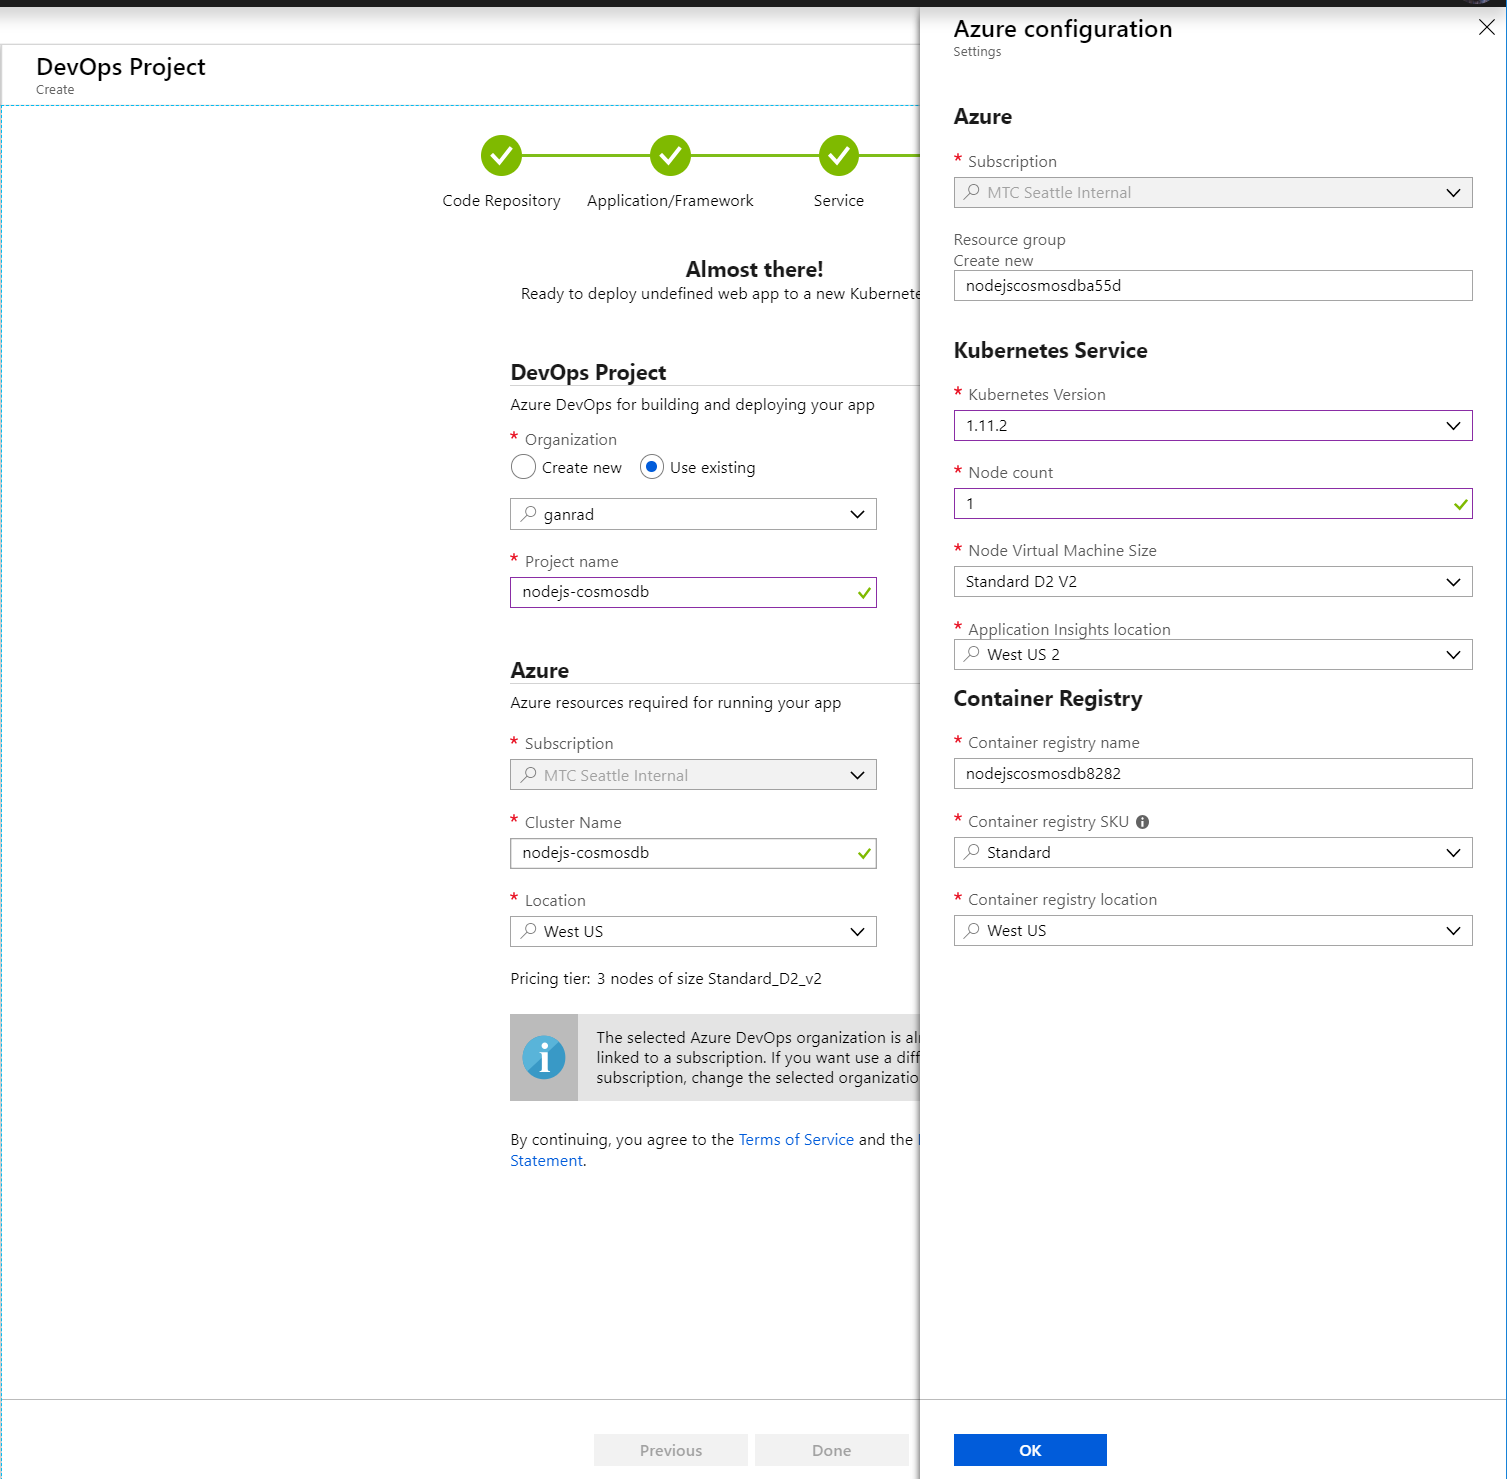
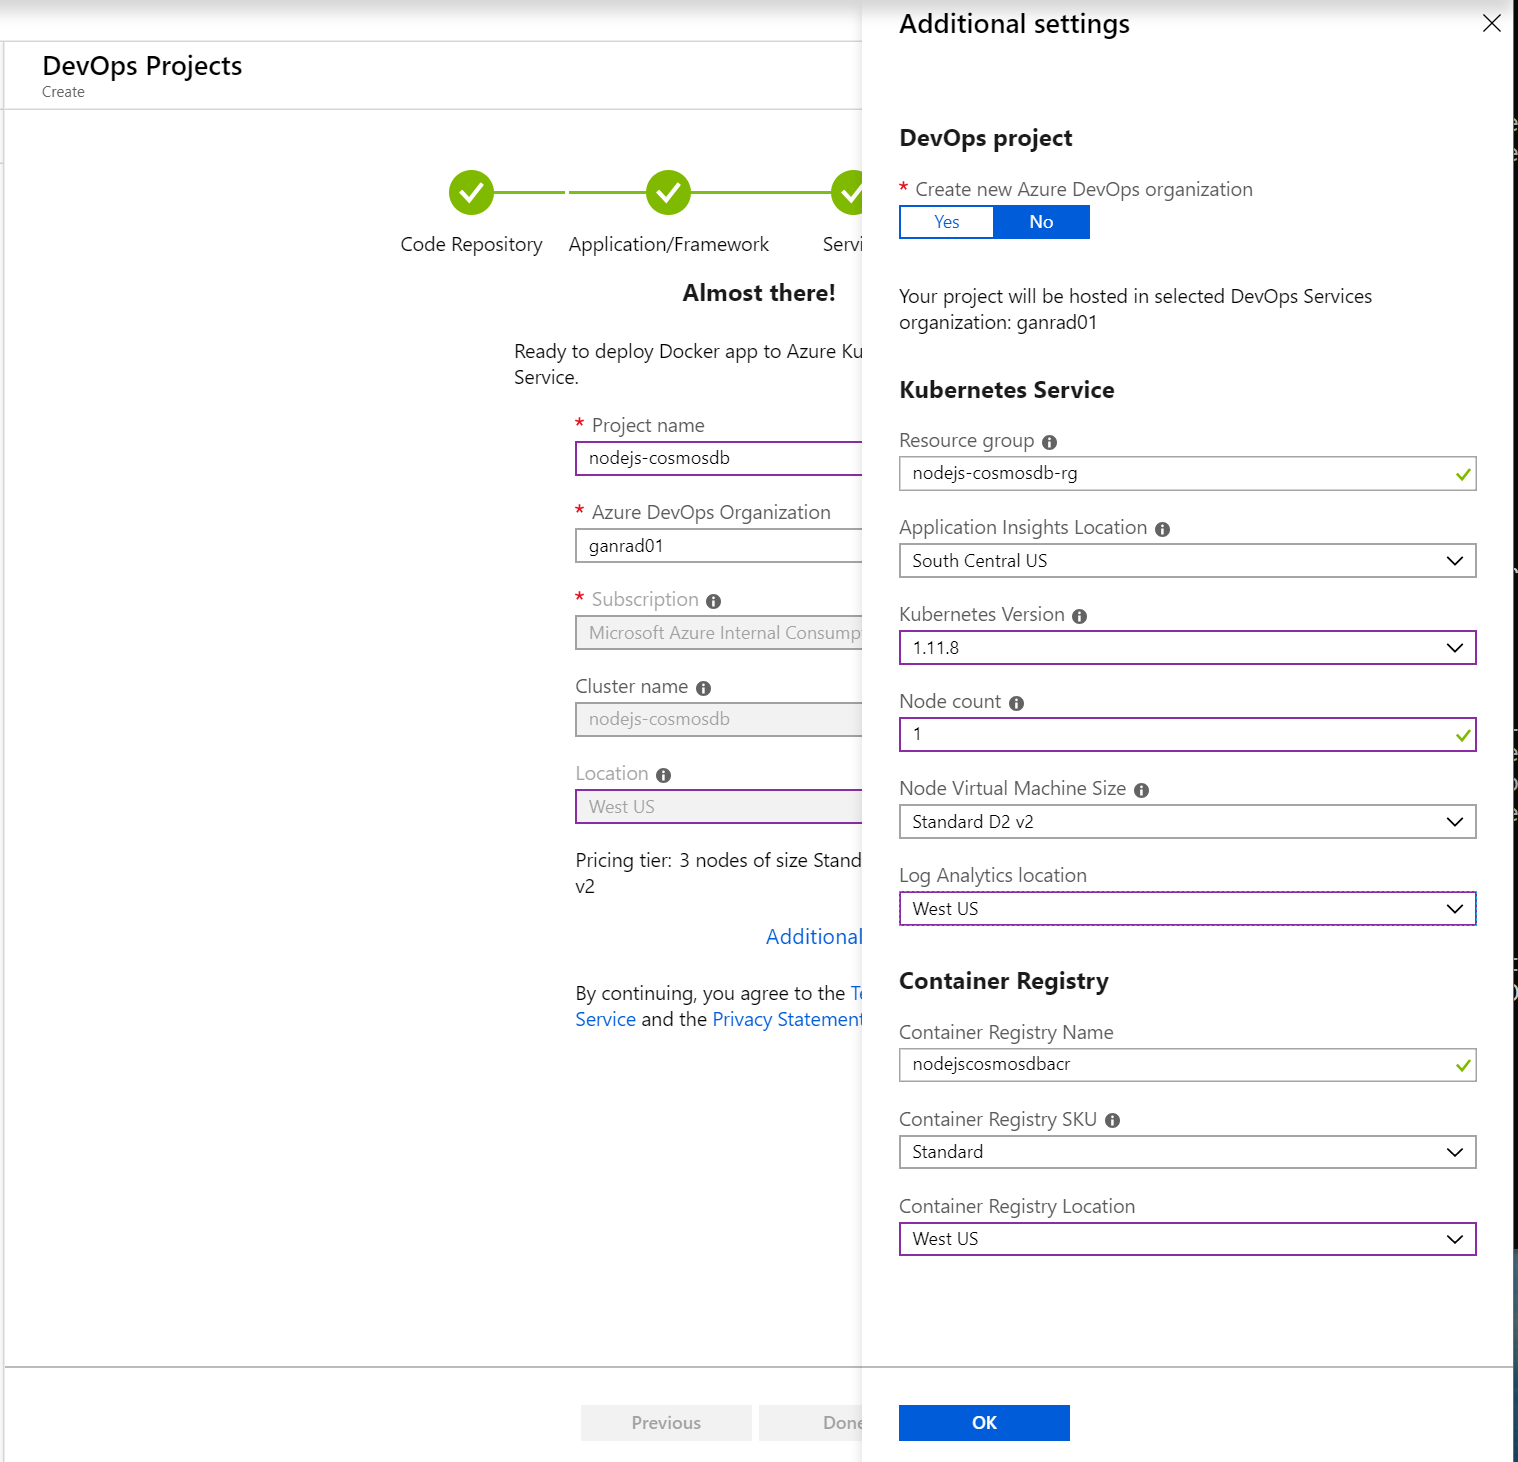
Updated Readme doc and images

diff --git a/config.js b/config.js
@@ -1,8 +1,7 @@
 let config = {}
 
-// Configure the host and authkey before deploying this app!!
-config.host = process.env.HOST || "https://grts-cosmosdb.documents.azure.com:443/";
[1 lines of base64/hex data omitted]
+config.host = process.env.HOST || "Substitute the value of URI here";
+config.authKey = process.env.AUTH_KEY || "Substitute the value of PRIMARY KEY here";
 config.databaseId = "OrderDB";
 config.collectionId = "PurchaseOrders";
 

diff --git a/README.md b/README.md
@@ -5,7 +5,7 @@ With Azure DevOps Projects, there are two options for building and deploying a c
 1.  [Azure App Service on Linux](https://docs.microsoft.com/en-us/azure/app-service/containers/app-service-linux-intro).  Refer to **Section [A]** in order to build and deploy this application to [Web App for Containers](https://azure.microsoft.com/en-us/services/app-service/containers/) on Azure App Service.
 2.  [Azure Kubernetes Service](https://azure.microsoft.com/en-us/services/kubernetes-service/).  Refer to **Section [B]** in order to build and deploy this application to AKS.
 
-Both options use DevOps CI/CD workflows in VSTS to build and deploy the containerized application.  The CI/CD workflows are automatically created by Azure DevOps Project.  We will examine both of these options for deploying our containerized application on Azure.
+Both options use DevOps CI/CD workflows in Azure DevOps to build and deploy the containerized application.  The CI/CD workflows are automatically created by Azure DevOps Project.  We will examine both of these options for deploying our containerized application on Azure.
 
 **PREREQUISITES**
 1. This application uses an *Azure CosmosDB* instance to persist the purchase orders.  Using the Azure Portal, create a new instance of Azure CosmosDB. Click on the 'Keys' blade and take a note (save) of the values for *URI* and *PRIMARY KEY* properties.  See screenshot below.
@@ -41,21 +41,21 @@ Both options use DevOps CI/CD workflows in VSTS to build and deploy the containe
 
    ![alt tag](./images/A-06.PNG)
 
-   On the *Service* page, create a new or use an existing VSTS organization.  Then give the VSTS project a meaningful name.  Also, select an *Azure Subscription*, give a name for the *Web app* and specify the *Location* where the Azure resources will be deployed. See screenshot below.  Make a note of the *Web app name*.  
+   On the *Service* page, create a new or use an existing Azure DevOps organization.  Then give the DevOps project a meaningful name.  Also, select an *Azure Subscription*, give a name for the *Web app* and specify the *Location* where the Azure resources will be deployed. See screenshot below.  Make a note of the *Web app name*.  
 
    ![alt tag](./images/A-07.PNG)
 
    Click on **Done**.  The *DevOps Project* wizard shall execute the following steps
-   - Provision build (Continuous Integration) and release (Continuous Deployment) pipelines for the application in VSTS and run the pipelines. The release pipeline will build an application container image and push the image to a new [Azure Container Registry](https://azure.microsoft.com/en-us/services/container-registry/) instance.
+   - Provision build (Continuous Integration) and release (Continuous Deployment) pipelines for the application in Azure DevOps and run the pipelines. The release pipeline will build an application container image and push the image to a new [Azure Container Registry](https://azure.microsoft.com/en-us/services/container-registry/) instance.
    - Provision and deploy the containerized application to a *Web App for Containers Service on Linux*.  The Web App Service will be provisioned in a App Service Plan ([Web app name]-hostingPlan). Review the *App Service* and *App Service Plan* details in the Azure Portal.
 
-2. Examine the deployed build and release (CI/CD) pipelines in your VSTS account. Review Web App Service (Web app name) resources in Azure using the portal (or CLI).  Also, verify that the application container image got built and pushed to a new *Azure Container Registry (ACR)* instance ([Web app name]xxxx).
+2. Examine the deployed build and release (CI/CD) pipelines in your Azure DevOps account. Review Web App Service (Web app name) resources in Azure using the portal (or CLI).  Also, verify that the application container image got built and pushed to a new *Azure Container Registry (ACR)* instance ([Web app name]xxxx).
 
 3. The microservice application can now be accessed via a browser at *https://[Web app name].azurewebsites.net*.
 
 4. Use the test scripts in the *test-scripts* folder of this project to fetch, add, update & delete purchase orders.  Update the REST API URLs in the scripts to point to your App Service end-point. The test scripts invoke the REST API's exposed by this Nodejs application.  Invoke the *test-scripts/insert-orders.sh* script from a terminal window (or a browser based REST Client such as Postman or ARC) to create purchase orders in the backend Azure CosmosDB document repository.  Verify the purchase order documents got created/updated/deleted in the Azure CosmosDB database via the Azure portal.  
 
-5. After you are done testing the application, you can delete the *App Service* via the Azure portal.  This will delete the *App Service* and the *App Service Plan* in Azure.  You will need to manually delete the *Azure Container Registry (ACR)* and *DevOps Project* instances in Azure.  Deleting the Azure *DevOps Project* will also delete corresponding resources (CI and CD pipelines, work items etc) in VSTS.
+5. After you are done testing the application, you can delete the *App Service* via the Azure portal.  This will delete the *App Service* and the *App Service Plan* in Azure.  You will need to manually delete the *Azure Container Registry (ACR)* and *DevOps Project* instances in Azure.  Deleting the Azure *DevOps Project* will also delete corresponding resources (CI and CD pipelines, work items etc) in Azure DevOps.
 
 ### B] Deploy to Azure Kubernetes Service
 1. Login to your account on Azure Portal, click on *All services* and search for *DevOps Projects* service. Add this service to your navigational pane by clicking on the *star* beside the service. Next, click on *DevOps Projects* to open the blade and click on **Add** to start the DevOps Project wizard.  See screenshot below.
@@ -82,24 +82,24 @@ Both options use DevOps CI/CD workflows in VSTS to build and deploy the containe
 
    ![alt tag](./images/B-02.PNG)
 
-   On the *Service* page, create a new or use an existing VSTS organization.  (You should already have a VSTS Account!).  Give the VSTS project a meaningful name and select an *Azure Subscription*.  Leave the *Cluster Name* field as is, it should default to the value of the project name.   Specify the *Location* where the Azure resources will be deployed.  Make a note of the *Project name*.  Then click on *Change* as shown in the screen shot below.
+   On the *Service* page, create a new or use an existing Azure DevOps organization.  (You should already have a Azure DevOps Account!).  Give the DevOps project a meaningful name and select an *Azure Subscription*.  Leave the *Cluster Name* field as is, it should default to the value of the project name.   Specify the *Location* where the Azure resources will be deployed.  Make a note of the *Project name*.  Then click on *Change* as shown in the screen shot below.
 
    ![alt tag](./images/B-03.PNG)
 
-   Change the *Node count* to **1** and *Kubernetes Version* to **1.11.2**.  You can either leave the other field values as is or change the default values if needed.  Then click **OK**.  See screenshot below.
+   Change the *Node count* to **1** and *Kubernetes Version* to **1.11.8**.  You can either leave the other field values as is or change the default values if needed.  Then click **OK**.  See screenshot below.
 
    ![alt tag](./images/B-04.PNG)
 
    Click on **Done**.  The *DevOps Projects* wizard shall execute the following steps
    - Provision an Azure Container Registry (ACR) instance (nodejscosmosdbxxxx).
    - Provision an Azure Kubernetes Service (AKS) instance on Azure (nodejscosmosdb).
-   - Provision build (Continuous Integration) and release (Continuous Deployment) pipelines for the application in Visual Studio Team Services (VSTS) and run the pipelines. The build pipeline will build an application container image and push the image to a new *Azure Container Registry* (ACR) instance.  Upon successful execution of the build pipeline, the release pipeline will be triggered. The release pipeline will use [Helm Package Manager](https://helm.sh/) to deploy the application to AKS.  Helm charts provided in this repository will be used to deploy the containerized application to AKS.
+   - Provision build (Continuous Integration) and release (Continuous Deployment) pipelines for the application in Azure DevOps Services and run the pipelines. The build pipeline will build an application container image and push the image to a new *Azure Container Registry* (ACR) instance.  Upon successful execution of the build pipeline, the release pipeline will be triggered. The release pipeline will use [Helm Package Manager](https://helm.sh/) to deploy the application to AKS.  Helm charts provided in this repository will be used to deploy the containerized application to AKS.
 
-   It will take approximately 15-20 minutes (maybe more) to provision all the resources in VSTS and AKS.  So be patient and take a coffee break, perhaps treat yourself to a pastry!
+   It will take approximately 15-20 minutes (maybe more) to provision all the resources in Azure DevOps and AKS.  So be patient and take a coffee break, perhaps treat yourself to a pastry!
 
 2. Wait for the *Notification* panel in Azure portal to confirm that the deployment of all resources succeeded.  At this point, you want to take some time to examine all the resources which were provisioned in 
    - **Azure** : DevOps Project, AKS, ACR and Load Balancer
-   - **VSTS** : Build and Release pipelines
+   - **Azure DevOps** : Build and Release pipelines
 
 3. Open the **Load Balancer** blade in Azure Portal to find the Public IP address of the application service endpoint.  See Screenshot below.
 
@@ -113,7 +113,7 @@ Both options use DevOps CI/CD workflows in VSTS to build and deploy the containe
 
 4. Use the test scripts in the *test-scripts* folder of this project to fetch, add, update & delete purchase orders.  Update the REST API URLs in the scripts to point to your App Service end-point. The test scripts invoke the REST API's exposed by this Nodejs application.  Invoke the *test-scripts/insert-orders.sh* script from a terminal window (or a browser based REST Client such as Postman or ARC) to create purchase orders in the backend Azure CosmosDB document repository.  Verify the purchase order documents got created/updated/deleted in the Azure CosmosDB database via the Azure portal.  
 
-5. After you are done testing the application, you can use the Azure portal to delete the **Resource Group** in which all the resources were deployed.  This will delete all resources provisioned in Azure and VSTS (Project).
+5. After you are done testing the application, you can use the Azure portal to delete the **Resource Group** in which all the resources were deployed.  This will delete all resources provisioned in Azure and Azure DevOps Services (Project).
 
    ![alt tag](./images/B-13.PNG)
 
